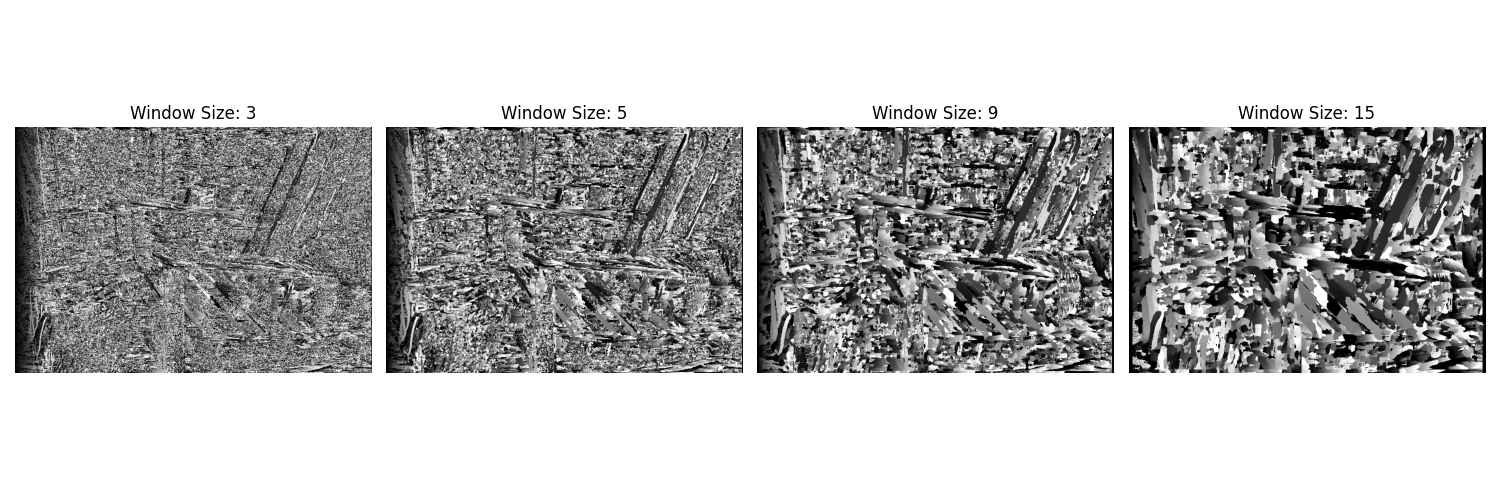
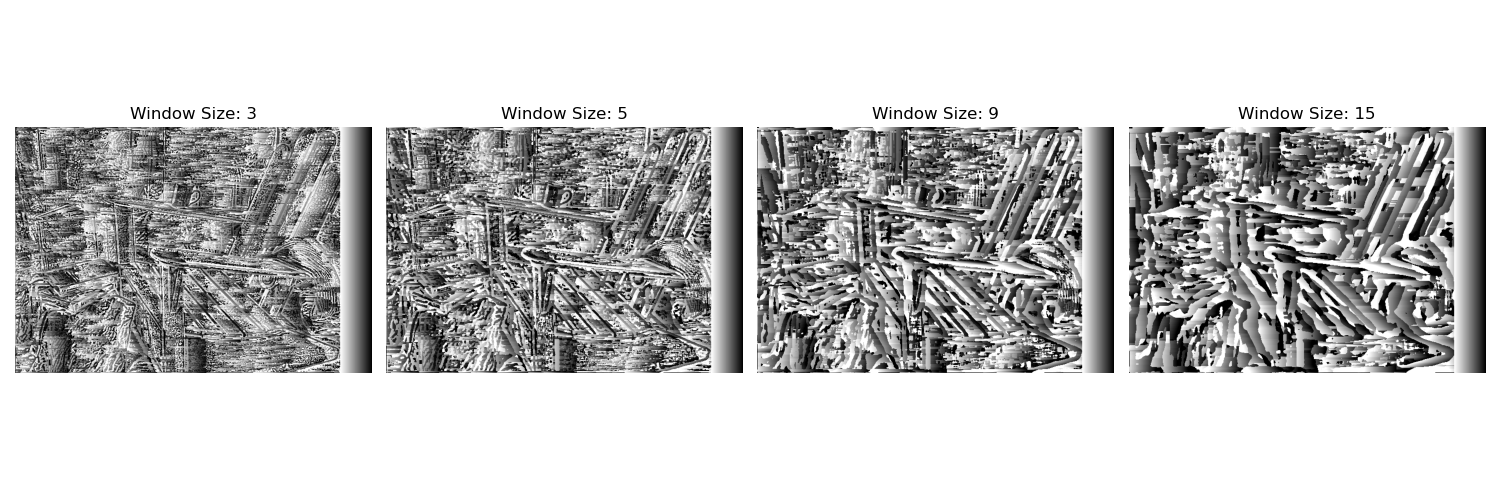
revised zncc convolution implementation

diff --git a/zncc_faster.py b/zncc_faster.py
@@ -6,6 +6,46 @@ from utils import show_images_side_by_side
 import numpy as np
 import cv2
 
+# def compute_zncc_fast(left_img, right_img, window_size, max_disparity):
+#     """
+#     Fast ZNCC computation using convolution (cv2.filter2D)
+#     """
+#     assert left_img.shape == right_img.shape
+#     H, W = left_img.shape
+#     window_area = window_size ** 2
+#     pad = window_size // 2
+
+#     # Convert to float32 for precision and padding
+#     left = np.pad(left_img.astype(np.float32), pad, mode='constant')
+#     right = np.pad(right_img.astype(np.float32), pad, mode='constant')
+
+#     kernel = np.ones((window_size, window_size), dtype=np.float32) / window_area
+#     zncc_volume = np.zeros((H, W, max_disparity), dtype=np.float32)
+
+#     # Precompute left image statistics
+#     mean_L = cv2.filter2D(left, -1, kernel)[pad:-pad, pad:-pad]
+#     mean_L_sq = cv2.filter2D(left ** 2, -1, kernel)[pad:-pad, pad:-pad]
+#     std_L = np.sqrt(np.maximum(mean_L_sq - mean_L ** 2, 1e-5))
+
+#     for d in range(max_disparity):
+#         # shift right image to the left by d pixels, and then pad the pixel out of the range by 0
+#         shifted = np.zeros_like(right)
+#         if d > 0:
+#             shifted[:, d:] = right[:, :-d]
+#         else:
+#             shifted = right
+
+#         mean_R = cv2.filter2D(shifted, -1, kernel)[pad:-pad, pad:-pad]
+#         mean_R_sq = cv2.filter2D(shifted ** 2, -1, kernel)[pad:-pad, pad:-pad]
+#         std_R = np.sqrt(np.maximum(mean_R_sq - mean_R ** 2, 1e-5))
+
+#         prod = cv2.filter2D(left * shifted, -1, kernel)[pad:-pad, pad:-pad]
+#         zncc = (prod - mean_L * mean_R) / (std_L * std_R)
+#         zncc_volume[:, :, d] = zncc
+
+#     return zncc_volume
+
+
 def compute_zncc_fast(left_img, right_img, window_size, max_disparity):
     """
     Fast ZNCC computation using convolution (cv2.filter2D)
@@ -19,40 +59,38 @@ def compute_zncc_fast(left_img, right_img, window_size, max_disparity):
     left = np.pad(left_img.astype(np.float32), pad, mode='constant')
     right = np.pad(right_img.astype(np.float32), pad, mode='constant')
 
-    kernel = np.ones((window_size, window_size), dtype=np.float32) / window_area
+    sum = np.ones((window_size, window_size), dtype=np.float32)
+    mean = np.ones((window_size, window_size), dtype=np.float32) / window_area
     zncc_volume = np.zeros((H, W, max_disparity), dtype=np.float32)
+    
+    # Precompute image statistics
+    mean_L = cv2.filter2D(left, -1, mean)
+    std_L = cv2.filter2D((left - mean_L)**2, -1, sum)[pad:-pad, pad:-pad]
+    err_L = cv2.filter2D((left - mean_L), -1, sum)[pad:-pad, pad:-pad]
+    mean_R = cv2.filter2D(right, -1, mean)
+    std_R = cv2.filter2D((right - mean_L)**2, -1, sum)[pad:-pad, pad:-pad]
+    err_R = cv2.filter2D((right - mean_L), -1, sum)[pad:-pad, pad:-pad]
 
-    # Precompute left image statistics
-    mean_L = cv2.filter2D(left, -1, kernel)[pad:-pad, pad:-pad]
-    mean_L_sq = cv2.filter2D(left ** 2, -1, kernel)[pad:-pad, pad:-pad]
-    std_L = np.sqrt(np.maximum(mean_L_sq - mean_L ** 2, 1e-5))
+    shift = lambda arr: np.pad(arr, ((0, 0), (0, 1)), mode='constant')[:, 1:]
 
     for d in range(max_disparity):
-        # shift right image to the left by d pixels, and then pad the pixel out of the range by 0
-        shifted = np.zeros_like(right)
-        if d > 0:
-            shifted[:, d:] = right[:, :-d]
-        else:
-            shifted = right
+        std_R = shift(std_R)
+        err_R = shift(err_R)
+    
+        zncc = (err_L * err_R) / np.sqrt(std_L * std_R)
 
-        mean_R = cv2.filter2D(shifted, -1, kernel)[pad:-pad, pad:-pad]
-        mean_R_sq = cv2.filter2D(shifted ** 2, -1, kernel)[pad:-pad, pad:-pad]
-        std_R = np.sqrt(np.maximum(mean_R_sq - mean_R ** 2, 1e-5))
-
-        prod = cv2.filter2D(left * shifted, -1, kernel)[pad:-pad, pad:-pad]
-        zncc = (prod - mean_L * mean_R) / (std_L * std_R)
         zncc_volume[:, :, d] = zncc
 
+    print(f'meanl shape: {mean_L.shape}')
+    print(f'zncc shape: {zncc.shape}')
     return zncc_volume
-
-
 
 left = cv2.imread('./source/2_left.png', cv2.IMREAD_GRAYSCALE)
 right = cv2.imread('./source/2_right.png', cv2.IMREAD_GRAYSCALE)
 show_images_side_by_side(left, right)
 
 # incoke the function
-window_size = 5
+window_size = 15
 max_disparity = 64
 start_time = time.time()
 zncc_volume = compute_zncc_fast(left, right, window_size, max_disparity)
